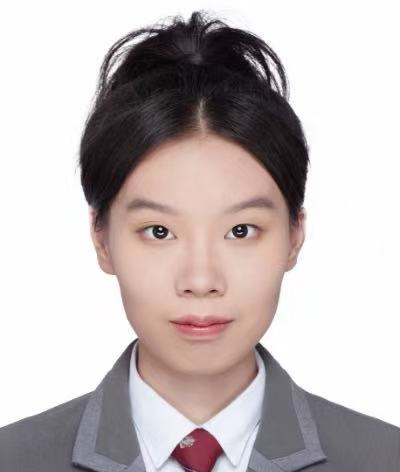
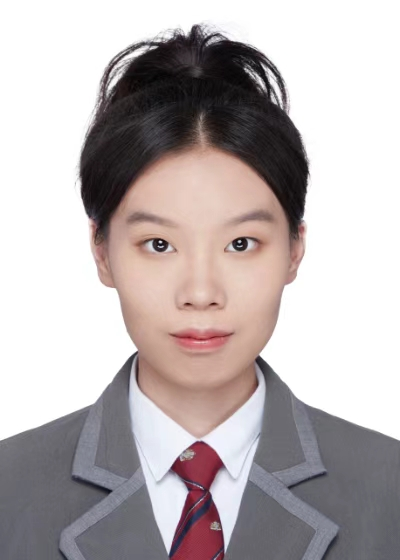
Show selected portrait at natural proportions without cropping

diff --git a/assets/css/research.css b/assets/css/research.css
@@ -1,3 +1,3 @@
 :root{--ink:#192b42;--blue:#183f72;--muted:#5c6878;--line:#dce3eb;--soft:#f3f6fb;--accent:#16766d;--paper:#fff;font-size:16px;color-scheme:light}*{box-sizing:border-box}html{scroll-behavior:smooth;scroll-padding-top:2rem}body{margin:0;background:var(--paper);color:var(--ink);font-family:Inter,"Segoe UI",Arial,sans-serif;font-size:1rem;line-height:1.75;-webkit-font-smoothing:antialiased}a{color:var(--blue);text-decoration:none}a:hover{text-decoration:underline;text-underline-offset:5px}a:focus-visible{outline:3px solid var(--accent);outline-offset:5px;border-radius:3px}::selection{background:#d7e7ff}h1,h2,h3,p{margin:0}strong{font-weight:600}h1,h2,h3{line-height:1.3}p+p{margin-top:.9rem}.site-shell{width:min(1200px,100%);margin:auto;padding:4.5rem 3rem 0;display:grid;grid-template-columns:260px minmax(0,1fr);gap:5rem}.profile{position:sticky;top:3rem;align-self:start;padding-right:1.5rem}.wordmark{display:inline-block;font-family:Georgia,serif;font-size:2rem;letter-spacing:-.1em;line-height:1;border-top:3px solid var(--blue);padding-top:.8rem;margin-bottom:2.1rem}.wordmark span{color:var(--accent)}.profile h1{font-size:2rem;font-weight:650;letter-spacing:-.055em}.profile h1 span{display:block;font-size:1.25rem;letter-spacing:.14em;font-weight:450;margin-top:.4rem}.identity{color:var(--blue);font-weight:600;margin-top:1.4rem;font-size:.95rem}.affiliation{font-size:.9rem;color:var(--muted);line-height:1.6;margin-top:.55rem}.current{margin:1.7rem 0 1.4rem;display:flex;gap:.6rem;font-size:.9rem;line-height:1.55}.current div>span{display:block;font-weight:650}.status-dot{height:7px;width:7px;flex-shrink:0;background:var(--accent);border-radius:50%;margin-top:.5rem}.contact{display:flex;gap:1.3rem;font-size:.9rem}.contact a span{padding-left:.25rem}.profile nav{margin-top:2.4rem;border-top:1px solid var(--line);padding-top:.7rem;display:flex;flex-direction:column}.profile nav a{display:flex;justify-content:space-between;padding:.6rem 0;color:var(--muted);font-size:.9rem}.profile nav a:hover{color:var(--blue)}.profile nav span{font-size:.8rem;color:var(--muted)}.side-note{font-size:.8rem;line-height:1.8;color:var(--muted);margin-top:2.3rem}main{min-width:0}section{margin-bottom:4.5rem}.about{padding-top:.2rem;padding-bottom:2.3rem;border-bottom:1px solid var(--line);margin-bottom:2.8rem}.eyebrow{display:flex;align-items:center;gap:.8rem;color:var(--blue);font-size:.8rem;letter-spacing:.14em;font-weight:650}.small-rule{height:1px;width:2.3rem;background:var(--blue)}.about h2{font-family:Georgia,"Times New Roman",serif;font-size:3.15rem;line-height:1.12;letter-spacing:-.045em;font-weight:400;margin:1.4rem 0 1.8rem}.about h2 em{color:var(--blue);font-weight:400}.about p:not(.eyebrow){max-width:660px}.topics{display:flex;flex-wrap:wrap;gap:.5rem;margin-top:1.5rem}.topics span{border:1px solid var(--line);padding:.22rem .65rem;border-radius:4px;font-size:.8rem;color:var(--muted)}.section-heading{display:flex;justify-content:space-between;align-items:baseline;gap:1rem;margin-bottom:1.7rem}.section-heading h2{font-size:1.5rem;letter-spacing:-.035em;font-weight:600}.section-heading>span{font-size:.75rem;letter-spacing:.06em;color:var(--muted);text-align:right}.project{padding:1.8rem 0;border-bottom:1px solid var(--line)}.project.featured{background:var(--soft);padding:1.7rem;border:1px solid var(--line);border-top:3px solid var(--blue);border-radius:5px;margin-bottom:.5rem}.project-top{display:flex;justify-content:space-between;align-items:center;gap:.8rem;margin-bottom:.8rem}.project-index{font-size:.75rem;letter-spacing:.07em;color:var(--muted);font-weight:550}.venue{font-size:.8rem;color:var(--blue);white-space:nowrap}.project h3{font-size:1.45rem;letter-spacing:-.03em;font-weight:650}.project h3>span{display:block;font-size:1.02rem;line-height:1.5;font-weight:500;letter-spacing:0;margin-top:.3rem}.byline{font-size:.875rem;color:var(--muted);margin:.75rem 0 1rem}.byline strong{color:var(--ink)}.project>p:not(.byline){font-size:1rem}.project .contribution{font-size:.9rem!important;color:var(--muted)}.project-links{display:flex;flex-wrap:wrap;gap:.6rem;margin-top:1.1rem}.project-links a{border:1px solid #b9c9dc;border-radius:4px;font-size:.85rem;line-height:1.6;padding:.3rem .7rem;font-weight:550;background:#fff;transition:background .15s,border-color .15s}.project-links a:hover{background:#e9f0fa;border-color:var(--blue);text-decoration:none}.concept{display:flex;align-items:stretch;gap:.5rem;margin:1.2rem 0;padding:1rem 0;border-top:1px solid var(--line);border-bottom:1px solid var(--line)}.concept div{flex:1;font-size:.82rem;font-weight:600;line-height:1.5}.concept div span{display:block;font-size:.75rem;font-weight:400;color:var(--muted);margin-top:.35rem}.concept b{align-self:center;font-weight:400;color:#8996a6}.concept .masked{color:var(--accent)}.timeline-item{display:grid;grid-template-columns:150px minmax(0,1fr);gap:1.4rem;position:relative;padding:0 0 1.9rem}.timeline-item h3,.education h3,.teaching h3{font-size:1.08rem;font-weight:600;letter-spacing:-.015em}.timeline-item p{font-size:.9rem;line-height:1.7;margin-top:.25rem}.date{font-size:.85rem!important;color:var(--muted)}.muted{color:var(--muted)}.live{display:inline-block;font-size:.75rem;font-weight:500;vertical-align:middle;background:#e7f4ef;color:#17644d;border-radius:3px;padding:.15rem .4rem;margin-left:.4rem}.education{border-left:3px solid var(--blue);padding:.2rem 0 .2rem 1.3rem}.education h3{margin-top:.4rem}.education p{font-size:.95rem;color:var(--muted);margin-top:.6rem}.teaching{margin-top:2rem}.teaching h3{margin-bottom:1rem}.teaching p{display:flex;justify-content:space-between;gap:1rem;font-size:.9rem;padding-bottom:.7rem;border-bottom:1px solid var(--line)}.teaching p span{color:var(--muted);white-space:nowrap}footer{display:flex;justify-content:space-between;gap:1rem;border-top:1px solid var(--line);padding:1.5rem 0 2.5rem;color:var(--muted);font-size:.8rem}.skip{position:absolute;left:1rem;top:-100px;padding:.5rem 1rem;background:#fff;z-index:10}.skip:focus{top:1rem}@media(min-width:1440px){.site-shell{gap:6rem;padding-top:5.5rem}}@media(max-width:1000px){.site-shell{gap:2.5rem;padding:3rem 2rem 0;grid-template-columns:225px minmax(0,1fr)}.about h2{font-size:2.7rem}.section-heading{flex-wrap:wrap;gap:.3rem}.timeline-item{grid-template-columns:125px minmax(0,1fr);gap:1rem}}@media(max-width:720px){html{scroll-padding-top:1rem}.site-shell{display:block;padding:2rem 1.3rem 0}.profile{position:static;padding:0 0 1.7rem;border-bottom:1px solid var(--line);margin-bottom:2rem}.wordmark{margin-bottom:1rem;font-size:1.5rem}.profile h1{font-size:2rem}.profile h1 span{display:inline-block;margin-left:.7rem;font-size:1.1rem;letter-spacing:.1em}.identity{margin-top:.9rem}.affiliation br{display:none}.current{margin:1rem 0}.profile nav{flex-direction:row;flex-wrap:wrap;gap:.2rem 1.2rem;margin-top:1rem;padding-top:.7rem}.profile nav span,.side-note{display:none}.profile nav a{font-size:.85rem;padding:.2rem 0}.about h2{font-size:2.8rem}.about{padding-bottom:2rem}.project.featured{padding:1.2rem}.project-top{align-items:start}.project-index{max-width:65%}.concept{gap:.5rem;flex-direction:column}.concept b{align-self:start;transform:rotate(90deg);margin-left:.4rem}.concept div span{margin-top:0}.timeline-item{display:block}.timeline-item .date{margin-bottom:.4rem}.section-heading>span{font-size:.75rem}.teaching p,footer{flex-wrap:wrap}section{margin-bottom:3.5rem}}@media(prefers-reduced-motion:reduce){html{scroll-behavior:auto}*{transition:none!important}}@media print{.site-shell{display:block;padding:0}.profile{position:static}.profile nav,.wordmark,.side-note,.skip{display:none}.project{break-inside:avoid}a{color:inherit}.about h2{font-size:2rem}}
 
-.portrait{display:block;width:180px;height:180px;object-fit:cover;border-radius:12px;margin-bottom:1.5rem;border:1px solid var(--line)}.award-list>div{display:grid;grid-template-columns:150px minmax(0,1fr);gap:1.4rem;padding:1rem 0;border-bottom:1px solid var(--line)}.award-list p{font-size:1rem;line-height:1.6}.award-list p span{display:block;font-size:.875rem;color:var(--muted);margin-top:.25rem}.profile{position:static}.profile nav{margin-top:1.5rem}.side-note{margin-top:1.5rem}@media(max-width:720px){.portrait{width:140px;height:140px;margin-bottom:1.2rem}.award-list>div{grid-template-columns:1fr;gap:.3rem}}
+.portrait{display:block;width:180px;max-width:100%;height:auto;object-fit:contain;border-radius:12px;margin-bottom:1.5rem;border:1px solid var(--line)}.award-list>div{display:grid;grid-template-columns:150px minmax(0,1fr);gap:1.4rem;padding:1rem 0;border-bottom:1px solid var(--line)}.award-list p{font-size:1rem;line-height:1.6}.award-list p span{display:block;font-size:.875rem;color:var(--muted);margin-top:.25rem}.profile{position:static}.profile nav{margin-top:1.5rem}.side-note{margin-top:1.5rem}@media(max-width:720px){.portrait{width:140px;height:auto;margin-bottom:1.2rem}.award-list>div{grid-template-columns:1fr;gap:.3rem}}

diff --git a/_layouts/research.html b/_layouts/research.html
@@ -13,7 +13,7 @@
 <a class="skip" href="#main">Skip to content</a>
 <div class="site-shell">
   <aside class="profile">
-    <img class="portrait" src="assets/img/ruitao-liu.jpg" alt="Ruitao Liu" width="180" height="180">
+    <img class="portrait" src="assets/img/ruitao-liu.jpg" alt="Ruitao Liu" width="400" height="560">
     <h1>Ruitao Liu<span lang="zh">刘睿韬</span></h1>
     <p class="identity">Yao Class, Tsinghua University</p>
     <p class="affiliation">Institute for Interdisciplinary<br>Information Sciences</p>
